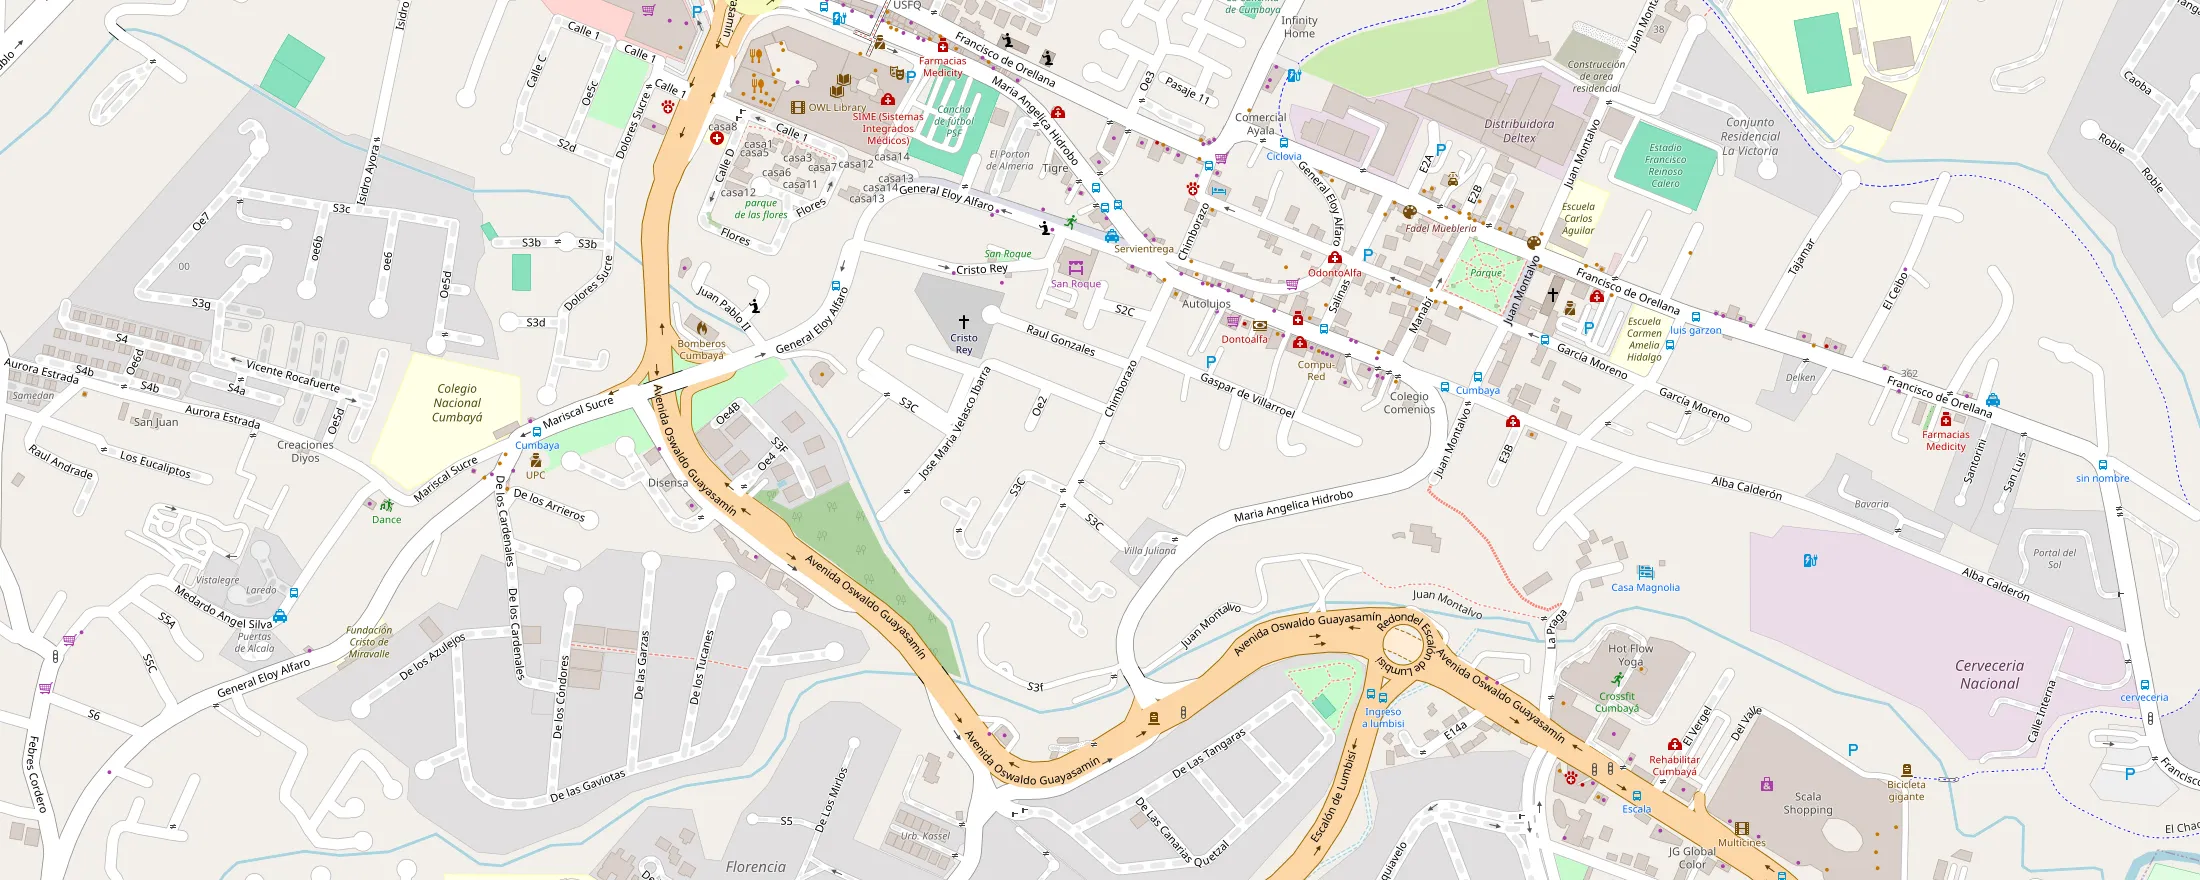
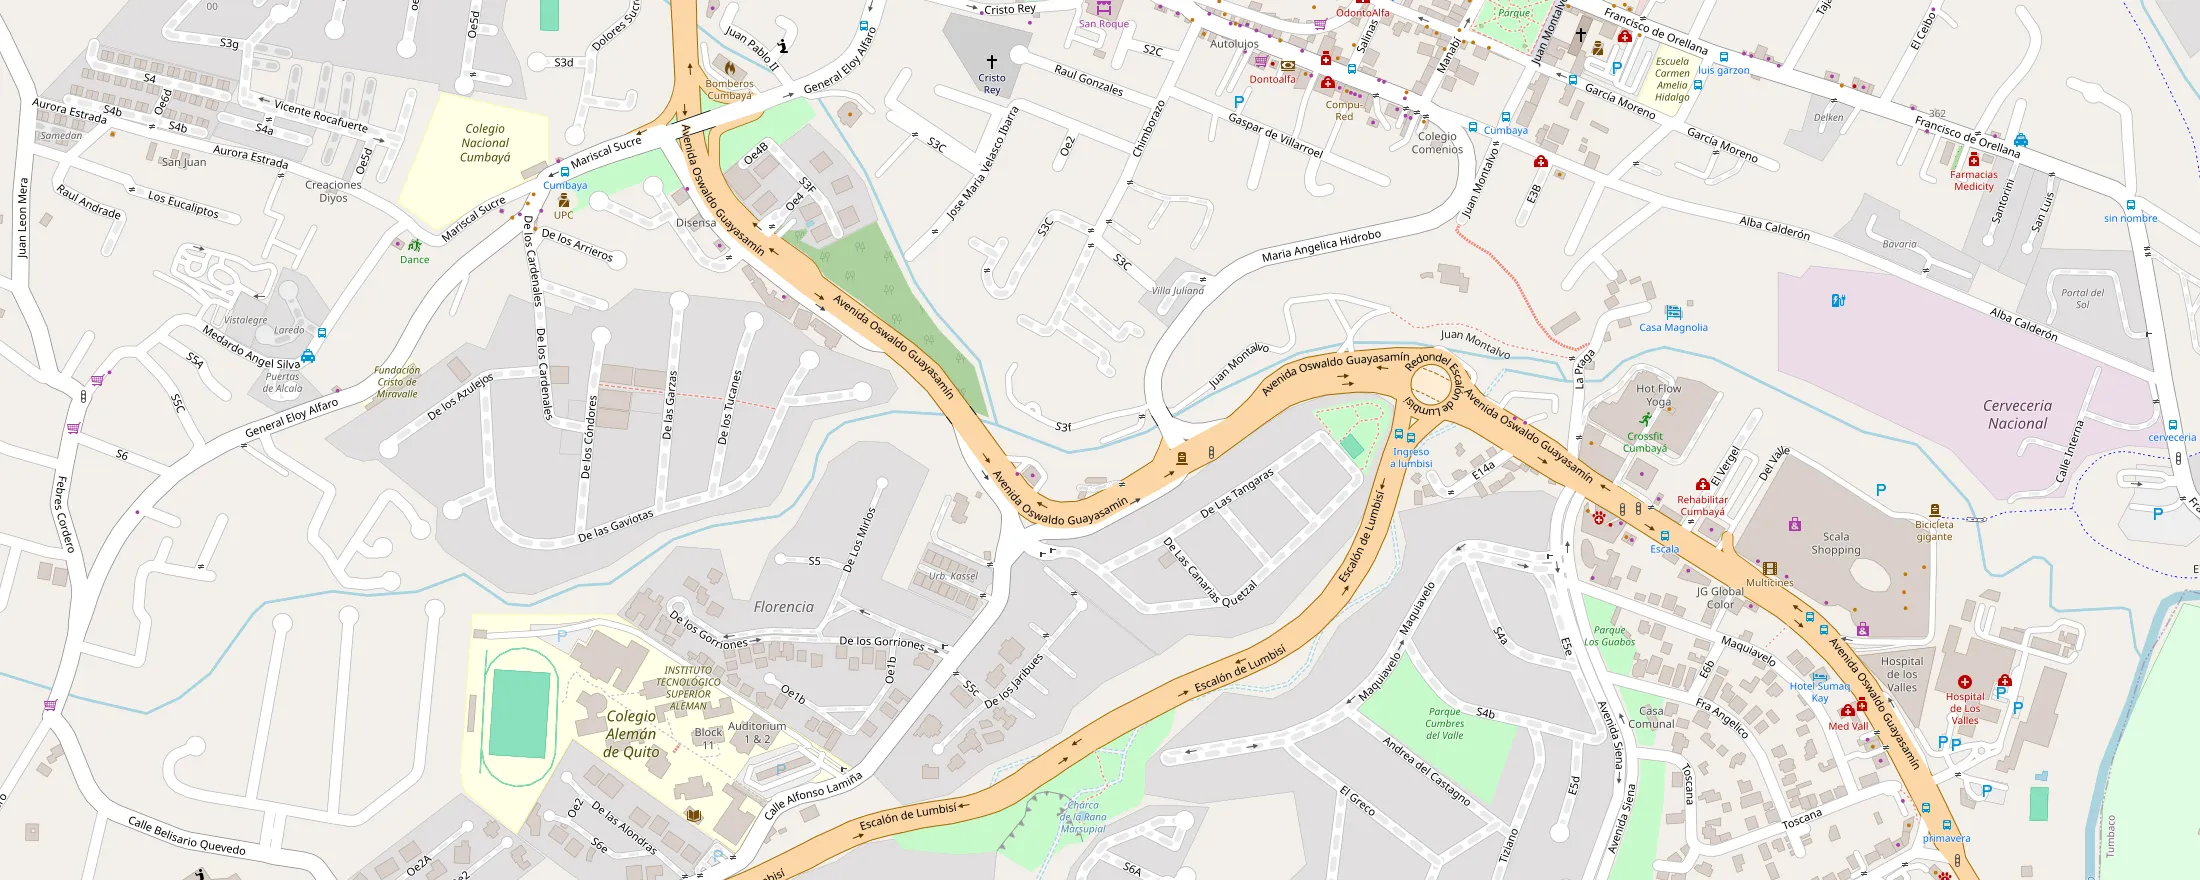
Pie restaurado: un comentario sin cerrar lo dejaba oculto en produccion
Al borrar la ultima mencion a La Pradera con una expresion regular
-"toda linea que contenga La Pradera"- me lleve la linea que cerraba el
comentario HTML del mapa. Todo lo que venia despues -el pie entero y el
boton de WhatsApp- quedo dentro del comentario y desaparecio de la
pagina en v=205. Restaurado el cierre; comprobado en el DOM real que el
pie mide su alto, que el mapa y el boton existen, y en produccion que
el comentario vuelve a cerrarse.

De paso, la chincheta recentrada sobre la Av. Oswaldo Guayasamin junto a
la Calle 1 (-0.2058, -78.4338): antes caia en una calle residencial.

diff --git a/casos-clinicos.html b/casos-clinicos.html
@@ -268,7 +268,8 @@ var m=document.querySelector('meta[name="theme-color"]');if(m)m.content='#12110E
   <div class="u-shell">
     <!-- Mapa de la zona. La imagen es una tesela de OpenStreetMap alojada aquí
          mismo —ninguna petición a terceros al cargar—; el enlace a Google Maps
-         sólo se sigue si el visitante lo pulsa. La chincheta marca el centro
+         sólo se sigue si el visitante lo pulsa. La chincheta marca el cruce
+         de la Av. Oswaldo Guayasamín con la Calle 1. -->
     <div class="footer__map map-wide" data-rev>
       <img src="assets/img/mapa-cumbaya.webp" alt="Mapa de Cumbayá: Av. Oswaldo Guayasamín y Calle 1" loading="lazy" decoding="async" width="2200" height="880">
       <span class="map-pin" aria-hidden="true"></span>

diff --git a/consultas-examenes.html b/consultas-examenes.html
@@ -316,7 +316,8 @@ var m=document.querySelector('meta[name="theme-color"]');if(m)m.content='#12110E
   <div class="u-shell">
     <!-- Mapa de la zona. La imagen es una tesela de OpenStreetMap alojada aquí
          mismo —ninguna petición a terceros al cargar—; el enlace a Google Maps
-         sólo se sigue si el visitante lo pulsa. La chincheta marca el centro
+         sólo se sigue si el visitante lo pulsa. La chincheta marca el cruce
+         de la Av. Oswaldo Guayasamín con la Calle 1. -->
     <div class="footer__map map-wide" data-rev>
       <img src="assets/img/mapa-cumbaya.webp" alt="Mapa de Cumbayá: Av. Oswaldo Guayasamín y Calle 1" loading="lazy" decoding="async" width="2200" height="880">
       <span class="map-pin" aria-hidden="true"></span>

diff --git a/contactanos.html b/contactanos.html
@@ -261,7 +261,8 @@ var m=document.querySelector('meta[name="theme-color"]');if(m)m.content='#12110E
   <div class="u-shell">
     <!-- Mapa de la zona. La imagen es una tesela de OpenStreetMap alojada aquí
          mismo —ninguna petición a terceros al cargar—; el enlace a Google Maps
-         sólo se sigue si el visitante lo pulsa. La chincheta marca el centro
+         sólo se sigue si el visitante lo pulsa. La chincheta marca el cruce
+         de la Av. Oswaldo Guayasamín con la Calle 1. -->
     <div class="footer__map map-wide" data-rev>
       <img src="assets/img/mapa-cumbaya.webp" alt="Mapa de Cumbayá: Av. Oswaldo Guayasamín y Calle 1" loading="lazy" decoding="async" width="2200" height="880">
       <span class="map-pin" aria-hidden="true"></span>

diff --git a/especialidades.html b/especialidades.html
@@ -345,7 +345,8 @@ var m=document.querySelector('meta[name="theme-color"]');if(m)m.content='#12110E
   <div class="u-shell">
     <!-- Mapa de la zona. La imagen es una tesela de OpenStreetMap alojada aquí
          mismo —ninguna petición a terceros al cargar—; el enlace a Google Maps
-         sólo se sigue si el visitante lo pulsa. La chincheta marca el centro
+         sólo se sigue si el visitante lo pulsa. La chincheta marca el cruce
+         de la Av. Oswaldo Guayasamín con la Calle 1. -->
     <div class="footer__map map-wide" data-rev>
       <img src="assets/img/mapa-cumbaya.webp" alt="Mapa de Cumbayá: Av. Oswaldo Guayasamín y Calle 1" loading="lazy" decoding="async" width="2200" height="880">
       <span class="map-pin" aria-hidden="true"></span>

diff --git a/index.html b/index.html
@@ -405,7 +405,8 @@ var m=document.querySelector('meta[name="theme-color"]');if(m)m.content='#12110E
   <div class="u-shell">
     <!-- Mapa de la zona. La imagen es una tesela de OpenStreetMap alojada aquí
          mismo —ninguna petición a terceros al cargar—; el enlace a Google Maps
-         sólo se sigue si el visitante lo pulsa. La chincheta marca el centro
+         sólo se sigue si el visitante lo pulsa. La chincheta marca el cruce
+         de la Av. Oswaldo Guayasamín con la Calle 1. -->
     <div class="footer__map map-wide" data-rev>
       <img src="assets/img/mapa-cumbaya.webp" alt="Mapa de Cumbayá: Av. Oswaldo Guayasamín y Calle 1" loading="lazy" decoding="async" width="2200" height="880">
       <span class="map-pin" aria-hidden="true"></span>

diff --git a/sobre-nosotros.html b/sobre-nosotros.html
@@ -657,7 +657,8 @@ var m=document.querySelector('meta[name="theme-color"]');if(m)m.content='#12110E
   <div class="u-shell">
     <!-- Mapa de la zona. La imagen es una tesela de OpenStreetMap alojada aquí
          mismo —ninguna petición a terceros al cargar—; el enlace a Google Maps
-         sólo se sigue si el visitante lo pulsa. La chincheta marca el centro
+         sólo se sigue si el visitante lo pulsa. La chincheta marca el cruce
+         de la Av. Oswaldo Guayasamín con la Calle 1. -->
     <div class="footer__map map-wide" data-rev>
       <img src="assets/img/mapa-cumbaya.webp" alt="Mapa de Cumbayá: Av. Oswaldo Guayasamín y Calle 1" loading="lazy" decoding="async" width="2200" height="880">
       <span class="map-pin" aria-hidden="true"></span>

diff --git a/_partials/footer.html b/_partials/footer.html
@@ -5,7 +5,8 @@
   <div class="u-shell">
     <!-- Mapa de la zona. La imagen es una tesela de OpenStreetMap alojada aquí
          mismo —ninguna petición a terceros al cargar—; el enlace a Google Maps
-         sólo se sigue si el visitante lo pulsa. La chincheta marca el centro
+         sólo se sigue si el visitante lo pulsa. La chincheta marca el cruce
+         de la Av. Oswaldo Guayasamín con la Calle 1. -->
     <div class="footer__map map-wide" data-rev>
       <img src="assets/img/mapa-cumbaya.webp" alt="Mapa de Cumbayá: Av. Oswaldo Guayasamín y Calle 1" loading="lazy" decoding="async" width="2200" height="880">
       <span class="map-pin" aria-hidden="true"></span>

diff --git a/assets/img/photos/CREDITS.md b/assets/img/photos/CREDITS.md
@@ -82,6 +82,6 @@ en vector. Sustituyen a los dos WebP anteriores, que se retiraron.
 ## Mapa
 
 `assets/img/mapa-cumbaya.webp`: teselas de OpenStreetMap (© colaboradores de OpenStreetMap, ODbL) a zoom 17, centradas en
--0.2030, -78.4335 —Av. Oswaldo Guayasamín y Calle 1, Cumbayá, 170157 Quito, la dirección oficial que dio el cliente—.
+-0.2058, -78.4338 —Av. Oswaldo Guayasamín y Calle 1, Cumbayá, 170157 Quito, la dirección oficial que dio el cliente—.
 Se genera una vez y se sirve desde el repo. Sustituye al de La Pradera (v=196–203), que salió de un marcador de
 Google Maps que no era la sede.
